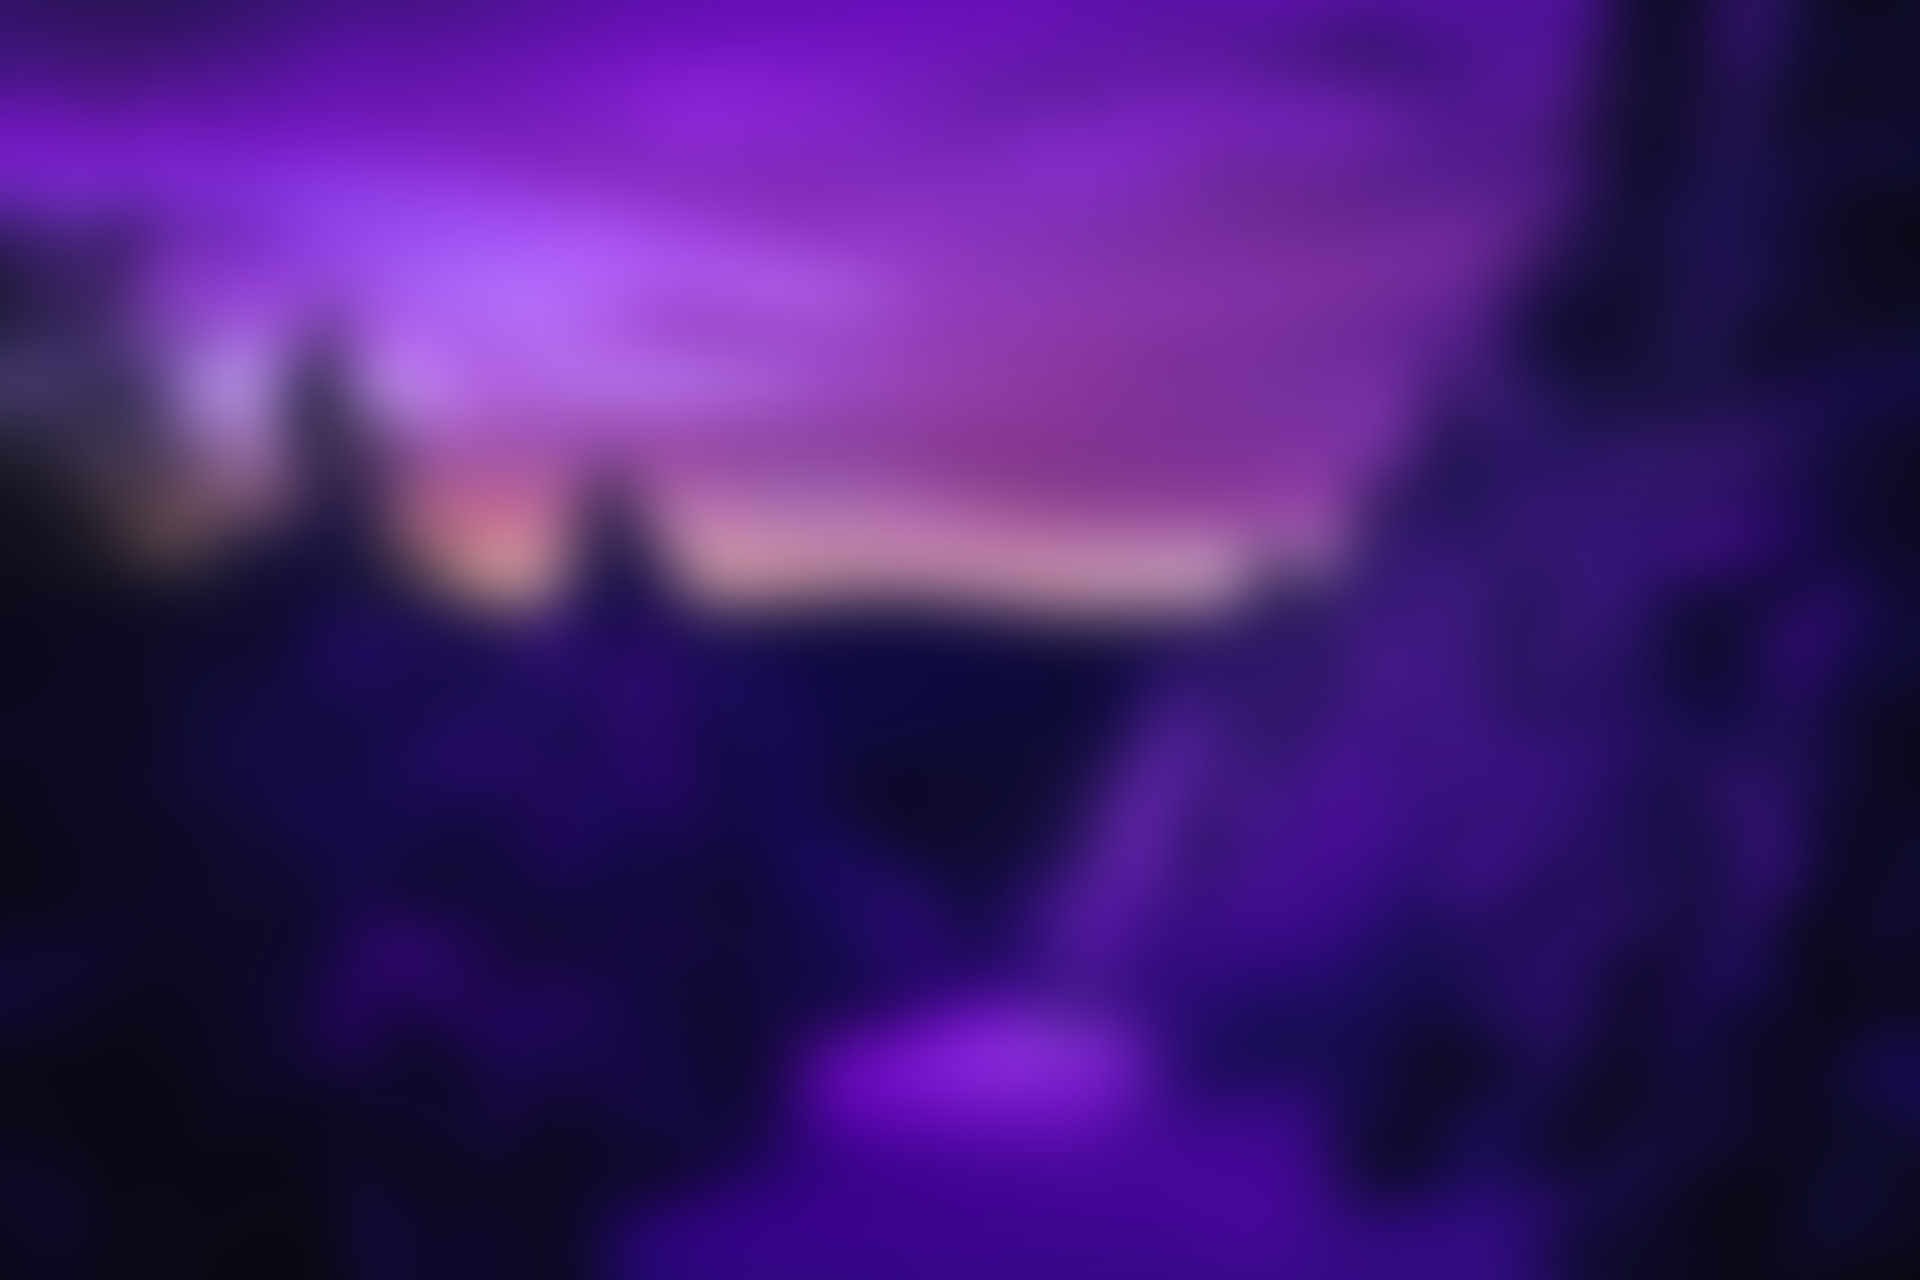
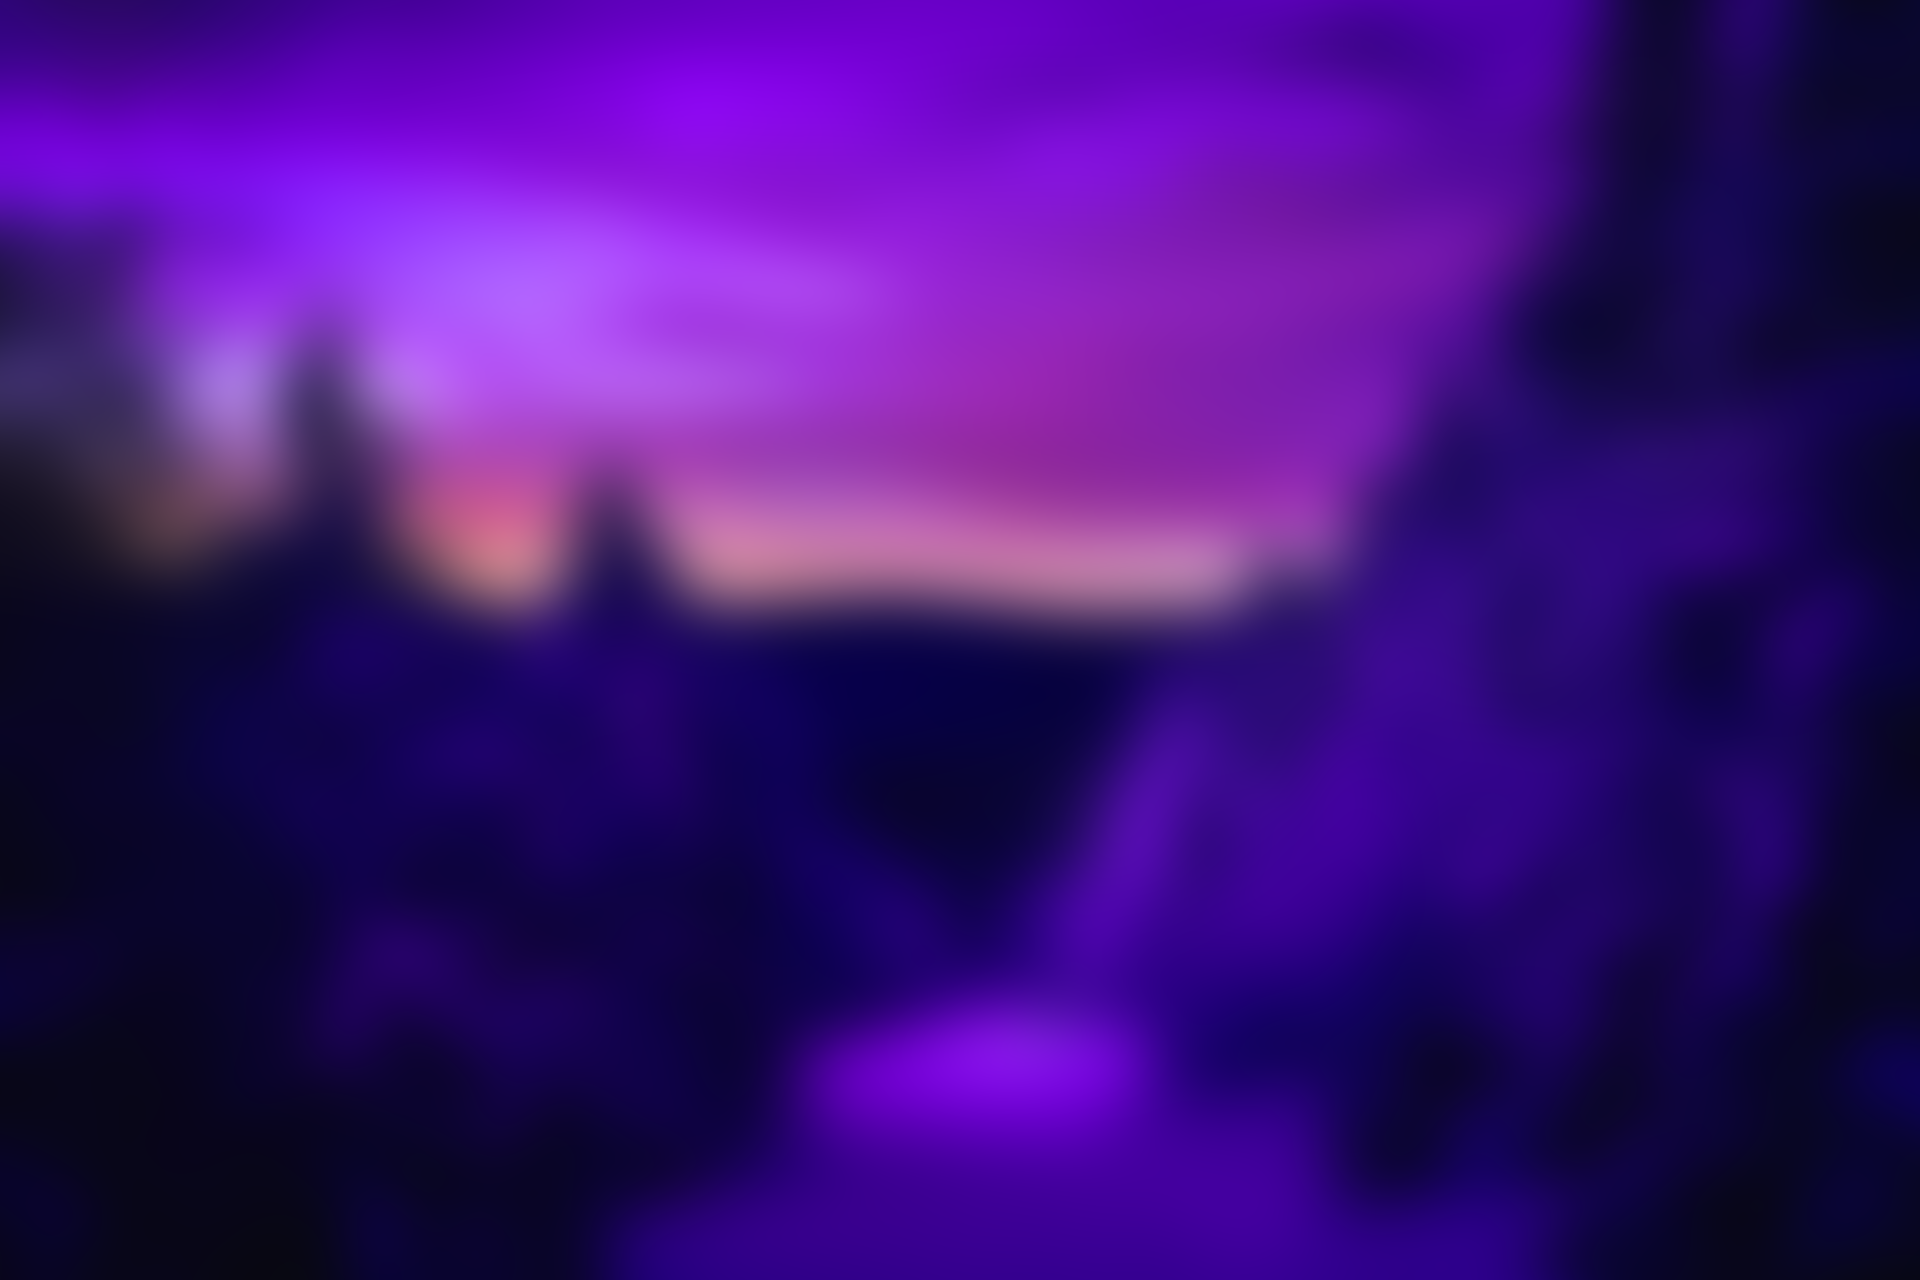
[Samm-Bot] Add ul styling, prerender background, add about section.

Changed region(s): [[0.0312, 0.0312, 0.625, 0.2188]]

diff --git a/Projects/SammBot/index.html b/Projects/SammBot/index.html
@@ -95,37 +95,17 @@
 				</div>
 				<div class="contentSection">
 					<h1 id="About" class="headlineClassSingle boldText">About</h1>
-					<p style="text-align: center">
-						Lorem ipsum dolor sit amet, consectetur adipiscing elit. Nunc ornare vestibulum risus et semper. Aliquam pharetra, nunc sit amet molestie vestibulum, mi tortor tempor augue, vitae rhoncus turpis nunc a sapien. Maecenas felis lectus, iaculis ac libero volutpat, pharetra auctor velit. Morbi luctus augue sit amet condimentum sagittis. Ut quis dolor ornare, facilisis ligula quis, pharetra mauris. Morbi velit magna, imperdiet mollis cursus a, suscipit id felis. Mauris tellus elit, tempus sit amet tincidunt eu, semper quis leo. Nam viverra orci non ipsum dignissim, vel feugiat augue auctor. Suspendisse ac vehicula risus. Nullam pellentesque a velit a blandit. Nullam aliquet eros eget lacus commodo bibendum. Nullam ut lectus feugiat, porttitor dui quis, commodo risus.
-
-						Etiam quis maximus ex. Aliquam erat volutpat. Nunc mollis eros ut leo aliquet, vel accumsan elit laoreet. Maecenas semper tincidunt sapien quis faucibus. Aenean eu molestie lacus. Pellentesque dignissim facilisis sapien eget vehicula. Nulla ac consequat erat. Maecenas sed ipsum nec quam facilisis scelerisque a in justo. Nunc molestie sollicitudin nunc ut vulputate.
-
-						Duis massa tellus, pharetra eget posuere et, pellentesque at odio. Sed sit amet sem metus. Vivamus neque neque, consectetur ut ornare at, scelerisque eu justo. Aenean sed dolor in turpis dictum efficitur ut sed arcu. Nunc eget hendrerit tortor. Donec non quam cursus, mollis dolor a, volutpat eros. Pellentesque feugiat ex nibh, eget cursus enim semper vitae. Vestibulum eget elit eget tortor imperdiet tristique. Quisque pretium, nisl quis consequat commodo, ante dolor vestibulum magna, at elementum augue libero eu nisi. Etiam malesuada neque nec arcu luctus tempus. Nullam eget laoreet ipsum. Suspendisse at rhoncus justo. Suspendisse potenti. Nulla vehicula tortor a dui bibendum, vestibulum condimentum quam aliquet. Praesent sollicitudin lacus eu consectetur fringilla.
-
-						Vestibulum ut dolor vitae ex placerat dignissim. Nullam auctor felis sed diam ultrices tempor. Integer ex arcu, porttitor at urna eget, condimentum interdum leo. Morbi luctus tortor elementum sapien imperdiet, et eleifend erat ultricies. Integer vehicula tristique mi, in mollis erat venenatis sit amet. Fusce in orci placerat, dapibus est nec, vestibulum lacus. Ut sit amet congue neque. Aliquam lacus purus, viverra nec neque eu, viverra convallis lacus. Sed eu odio enim. Donec id feugiat leo, sed congue nisi. Suspendisse consectetur tempor magna, vel ultrices dui efficitur non. Fusce est quam, elementum in enim fermentum, scelerisque hendrerit sem. Sed nisl purus, pharetra id dolor fermentum, aliquet porta libero.
-
-						Vestibulum vitae ex dolor. Maecenas urna felis, sodales ac luctus at, laoreet in nibh. Sed scelerisque et massa sed porttitor. Donec at lorem vestibulum, laoreet enim nec, dapibus ligula. Vestibulum ante ipsum primis in faucibus orci luctus et ultrices posuere cubilia curae; Maecenas sed eleifend eros. Fusce elementum nunc eget elementum imperdiet.
+					<p>
+						Samm-Bot is a new Discord bot designed with simple usage in mind, and it's open source! Anyone can contribute to Samm-Bot's development, which by the way, it's
+						in constant development! Although, I can only work on it in my free time, and sadly, school has made this harder for me.
 						<br><br>
-						Lorem ipsum dolor sit amet, consectetur adipiscing elit. Nunc ornare vestibulum risus et semper. Aliquam pharetra, nunc sit amet molestie vestibulum, mi tortor tempor augue, vitae rhoncus turpis nunc a sapien. Maecenas felis lectus, iaculis ac libero volutpat, pharetra auctor velit. Morbi luctus augue sit amet condimentum sagittis. Ut quis dolor ornare, facilisis ligula quis, pharetra mauris. Morbi velit magna, imperdiet mollis cursus a, suscipit id felis. Mauris tellus elit, tempus sit amet tincidunt eu, semper quis leo. Nam viverra orci non ipsum dignissim, vel feugiat augue auctor. Suspendisse ac vehicula risus. Nullam pellentesque a velit a blandit. Nullam aliquet eros eget lacus commodo bibendum. Nullam ut lectus feugiat, porttitor dui quis, commodo risus.
-
-						Etiam quis maximus ex. Aliquam erat volutpat. Nunc mollis eros ut leo aliquet, vel accumsan elit laoreet. Maecenas semper tincidunt sapien quis faucibus. Aenean eu molestie lacus. Pellentesque dignissim facilisis sapien eget vehicula. Nulla ac consequat erat. Maecenas sed ipsum nec quam facilisis scelerisque a in justo. Nunc molestie sollicitudin nunc ut vulputate.
-
-						Duis massa tellus, pharetra eget posuere et, pellentesque at odio. Sed sit amet sem metus. Vivamus neque neque, consectetur ut ornare at, scelerisque eu justo. Aenean sed dolor in turpis dictum efficitur ut sed arcu. Nunc eget hendrerit tortor. Donec non quam cursus, mollis dolor a, volutpat eros. Pellentesque feugiat ex nibh, eget cursus enim semper vitae. Vestibulum eget elit eget tortor imperdiet tristique. Quisque pretium, nisl quis consequat commodo, ante dolor vestibulum magna, at elementum augue libero eu nisi. Etiam malesuada neque nec arcu luctus tempus. Nullam eget laoreet ipsum. Suspendisse at rhoncus justo. Suspendisse potenti. Nulla vehicula tortor a dui bibendum, vestibulum condimentum quam aliquet. Praesent sollicitudin lacus eu consectetur fringilla.
-
-						Vestibulum ut dolor vitae ex placerat dignissim. Nullam auctor felis sed diam ultrices tempor. Integer ex arcu, porttitor at urna eget, condimentum interdum leo. Morbi luctus tortor elementum sapien imperdiet, et eleifend erat ultricies. Integer vehicula tristique mi, in mollis erat venenatis sit amet. Fusce in orci placerat, dapibus est nec, vestibulum lacus. Ut sit amet congue neque. Aliquam lacus purus, viverra nec neque eu, viverra convallis lacus. Sed eu odio enim. Donec id feugiat leo, sed congue nisi. Suspendisse consectetur tempor magna, vel ultrices dui efficitur non. Fusce est quam, elementum in enim fermentum, scelerisque hendrerit sem. Sed nisl purus, pharetra id dolor fermentum, aliquet porta libero.
-
-						Vestibulum vitae ex dolor. Maecenas urna felis, sodales ac luctus at, laoreet in nibh. Sed scelerisque et massa sed porttitor. Donec at lorem vestibulum, laoreet enim nec, dapibus ligula. Vestibulum ante ipsum primis in faucibus orci luctus et ultrices posuere cubilia curae; Maecenas sed eleifend eros. Fusce elementum nunc eget elementum imperdiet.
+						Samm-Bot doesn't need much memory to run, and it's fast. My private official instance runs on a Raspberry Pi 4B, and it uses around 120 megabytes of memory. It
+						should also run on pretty much any OS that supports .NET, including Windows, Linux and macOS.
 						<br><br>
-						Lorem ipsum dolor sit amet, consectetur adipiscing elit. Nunc ornare vestibulum risus et semper. Aliquam pharetra, nunc sit amet molestie vestibulum, mi tortor tempor augue, vitae rhoncus turpis nunc a sapien. Maecenas felis lectus, iaculis ac libero volutpat, pharetra auctor velit. Morbi luctus augue sit amet condimentum sagittis. Ut quis dolor ornare, facilisis ligula quis, pharetra mauris. Morbi velit magna, imperdiet mollis cursus a, suscipit id felis. Mauris tellus elit, tempus sit amet tincidunt eu, semper quis leo. Nam viverra orci non ipsum dignissim, vel feugiat augue auctor. Suspendisse ac vehicula risus. Nullam pellentesque a velit a blandit. Nullam aliquet eros eget lacus commodo bibendum. Nullam ut lectus feugiat, porttitor dui quis, commodo risus.
-
-						Etiam quis maximus ex. Aliquam erat volutpat. Nunc mollis eros ut leo aliquet, vel accumsan elit laoreet. Maecenas semper tincidunt sapien quis faucibus. Aenean eu molestie lacus. Pellentesque dignissim facilisis sapien eget vehicula. Nulla ac consequat erat. Maecenas sed ipsum nec quam facilisis scelerisque a in justo. Nunc molestie sollicitudin nunc ut vulputate.
-
-						Duis massa tellus, pharetra eget posuere et, pellentesque at odio. Sed sit amet sem metus. Vivamus neque neque, consectetur ut ornare at, scelerisque eu justo. Aenean sed dolor in turpis dictum efficitur ut sed arcu. Nunc eget hendrerit tortor. Donec non quam cursus, mollis dolor a, volutpat eros. Pellentesque feugiat ex nibh, eget cursus enim semper vitae. Vestibulum eget elit eget tortor imperdiet tristique. Quisque pretium, nisl quis consequat commodo, ante dolor vestibulum magna, at elementum augue libero eu nisi. Etiam malesuada neque nec arcu luctus tempus. Nullam eget laoreet ipsum. Suspendisse at rhoncus justo. Suspendisse potenti. Nulla vehicula tortor a dui bibendum, vestibulum condimentum quam aliquet. Praesent sollicitudin lacus eu consectetur fringilla.
-
-						Vestibulum ut dolor vitae ex placerat dignissim. Nullam auctor felis sed diam ultrices tempor. Integer ex arcu, porttitor at urna eget, condimentum interdum leo. Morbi luctus tortor elementum sapien imperdiet, et eleifend erat ultricies. Integer vehicula tristique mi, in mollis erat venenatis sit amet. Fusce in orci placerat, dapibus est nec, vestibulum lacus. Ut sit amet congue neque. Aliquam lacus purus, viverra nec neque eu, viverra convallis lacus. Sed eu odio enim. Donec id feugiat leo, sed congue nisi. Suspendisse consectetur tempor magna, vel ultrices dui efficitur non. Fusce est quam, elementum in enim fermentum, scelerisque hendrerit sem. Sed nisl purus, pharetra id dolor fermentum, aliquet porta libero.
-
-						Vestibulum vitae ex dolor. Maecenas urna felis, sodales ac luctus at, laoreet in nibh. Sed scelerisque et massa sed porttitor. Donec at lorem vestibulum, laoreet enim nec, dapibus ligula. Vestibulum ante ipsum primis in faucibus orci luctus et ultrices posuere cubilia curae; Maecenas sed eleifend eros. Fusce elementum nunc eget elementum imperdiet.
-
+						Keep in mind that I'm the only person working on this project, so sometimes development can be slow. I can't catch all bugs either, so GitHub issues would be really
+						appreciated!
+						<br><br>
+						Samm-Bot is licensed under a permissive license, and all the libraries used are open source as well!
 					</p>
 				</div>
 				<div class="contentSection">
@@ -208,7 +188,7 @@
 				</div>
 				<div class="contentSection">
 					<h1 id="Install" class="headlineClassSingle boldText">Install</h1>
-					<p style="text-align: center">
+					<p>
 						Samm-Bot does not currently have public-available hosting. You will need to download the bot's source code, compile it, and host it yourself. I understand
 						this is not convenient for non-tech-savvy users, but it's all I can do right now.
 						<br><br>
@@ -220,7 +200,7 @@
 				</div>
 				<div class="contentSection">
 					<h1 id="Documentation" class="headlineClassSingle boldText">Documentation</h1>
-					<p style="text-align: center">
+					<p>
 						Lorem ipsum dolor sit amet, consectetur adipiscing elit. Nunc ornare vestibulum risus et semper. Aliquam pharetra, nunc sit amet molestie vestibulum, mi tortor tempor augue, vitae rhoncus turpis nunc a sapien. Maecenas felis lectus, iaculis ac libero volutpat, pharetra auctor velit. Morbi luctus augue sit amet condimentum sagittis. Ut quis dolor ornare, facilisis ligula quis, pharetra mauris. Morbi velit magna, imperdiet mollis cursus a, suscipit id felis. Mauris tellus elit, tempus sit amet tincidunt eu, semper quis leo. Nam viverra orci non ipsum dignissim, vel feugiat augue auctor. Suspendisse ac vehicula risus. Nullam pellentesque a velit a blandit. Nullam aliquet eros eget lacus commodo bibendum. Nullam ut lectus feugiat, porttitor dui quis, commodo risus.
 
 						Etiam quis maximus ex. Aliquam erat volutpat. Nunc mollis eros ut leo aliquet, vel accumsan elit laoreet. Maecenas semper tincidunt sapien quis faucibus. Aenean eu molestie lacus. Pellentesque dignissim facilisis sapien eget vehicula. Nulla ac consequat erat. Maecenas sed ipsum nec quam facilisis scelerisque a in justo. Nunc molestie sollicitudin nunc ut vulputate.

diff --git a/Projects/SammBot/Stylesheets/Common/framework.css b/Projects/SammBot/Stylesheets/Common/framework.css
@@ -12,6 +12,10 @@ a:visited {
     color: #654c65;
 }
 
+li::marker {
+    color: #755072;
+}
+
 body {
     padding: 0;
     margin: 0;
@@ -74,9 +78,7 @@ body {
 }
 
 .acrylicSurface {
-    -webkit-backdrop-filter: saturate(125%);
-    backdrop-filter: saturate(125%);
-
+    /*It's 2022 and backdrop-filter is still slow as shit. Why??? Prerendering an image every time I want to make a tiny change is annoying.*/
     background-color: rgba(64, 64, 64, 0.1);
 }
 
@@ -95,6 +97,14 @@ body {
 
 .contentSection {
     width: 100%;
+
+    text-align: center;
+}
+
+.contentSection > ul {
+    display: inline-block;
+
+    text-align: left;
 }
 
 .contentSection > p {
